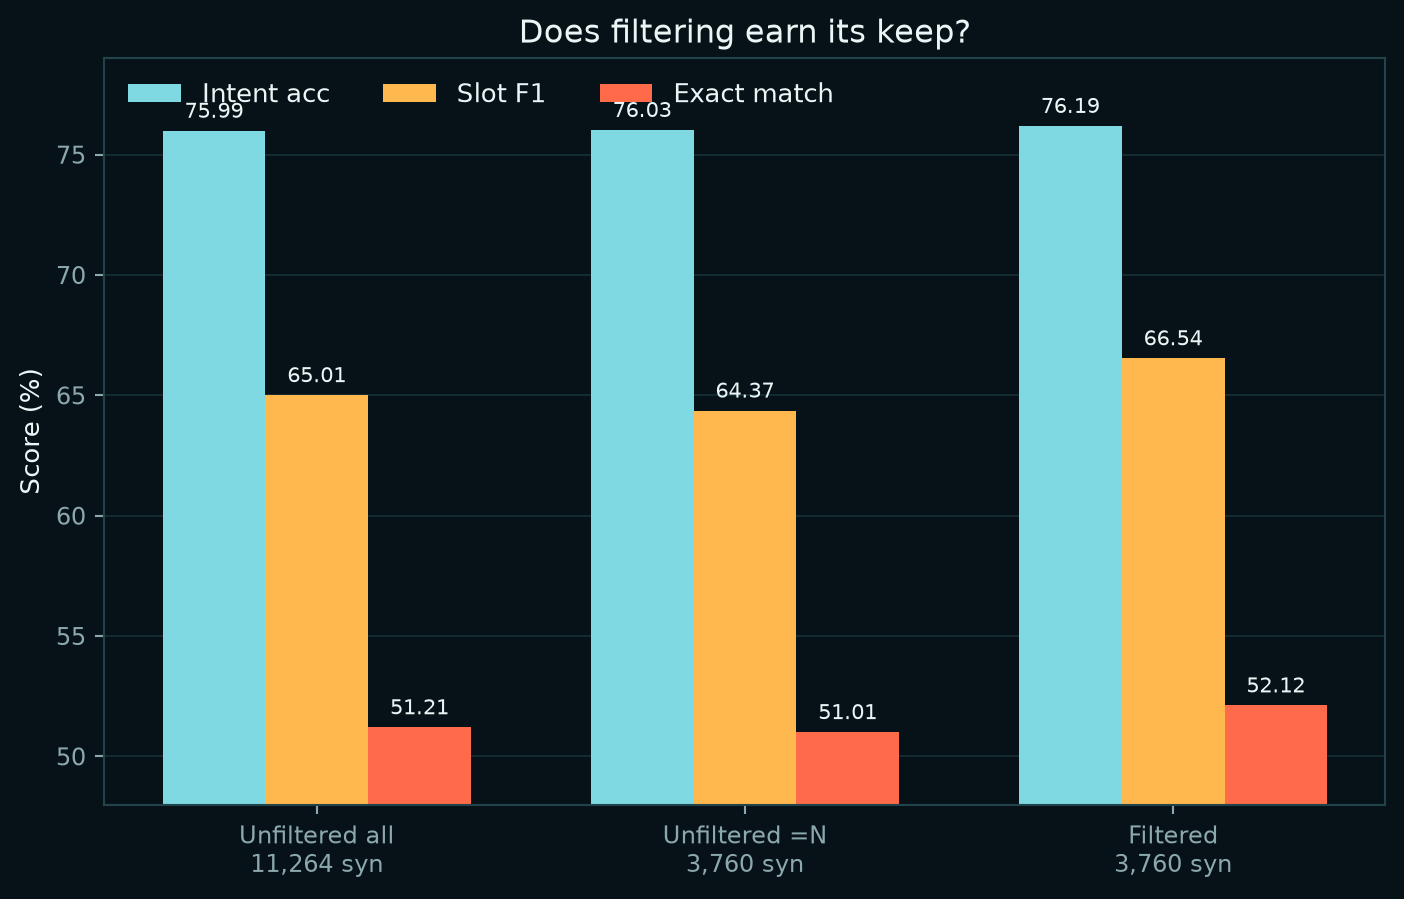
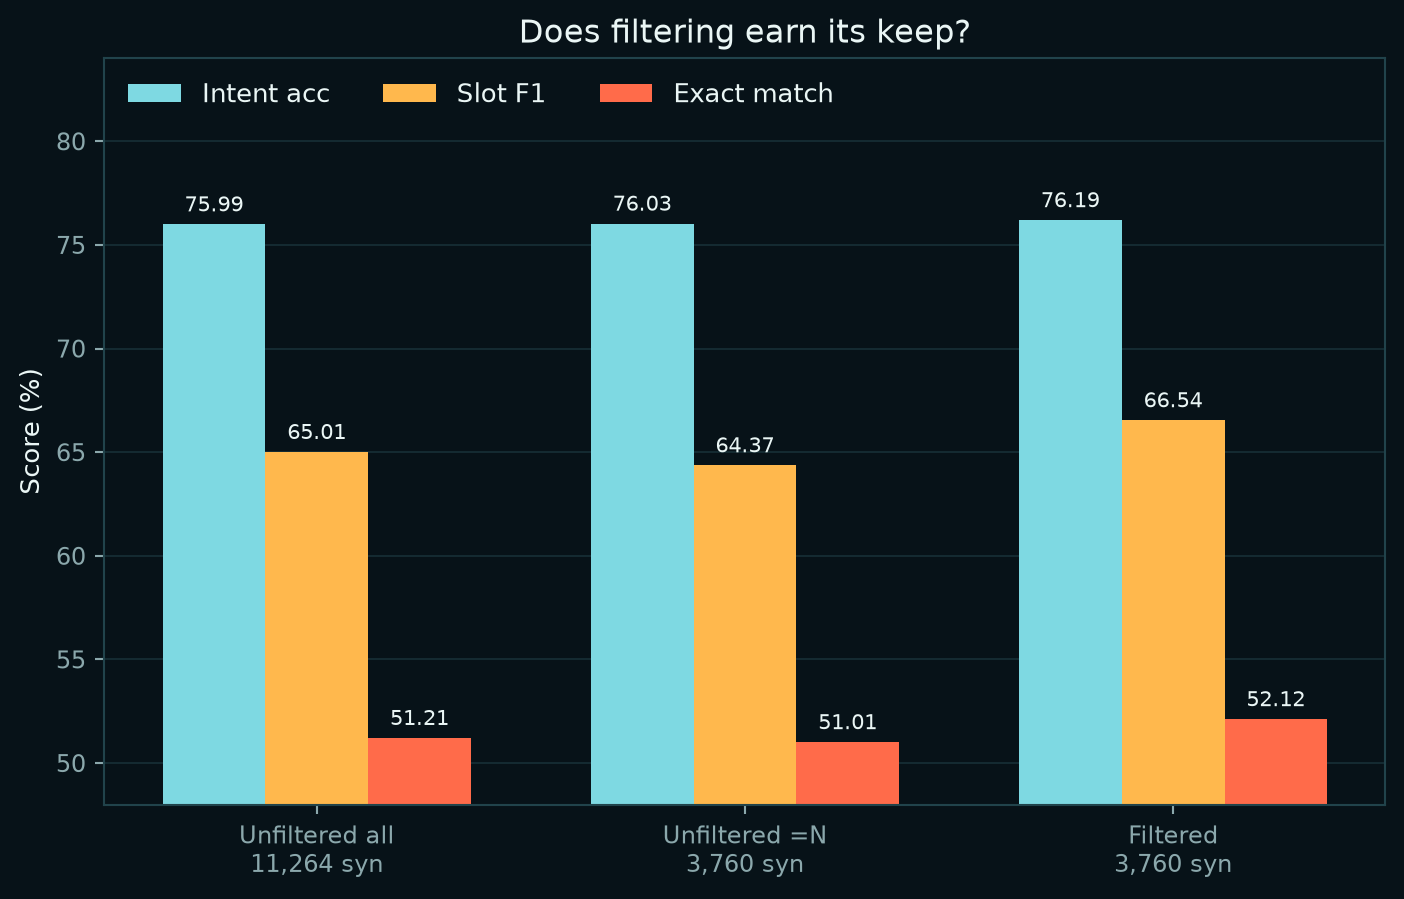
Give the filter comparison chart headroom for its legend
The upper-left legend sat on top of the first bar's value label, so 75.99 was
readable but crowded. Raising the y limit from 79 to 84 clears it.

Regenerated with the resource report pointed at a throwaway path so only the
assets changed; the ledger still reflects the batches that had completed when
it was last built.

Opened both regenerated charts to check them, per the repo's own rule about
looking at figures you produce. The truncated y axes are worth naming: both
charts start well above zero, which makes small gaps easier to see. That is
defensible here because every bar carries its printed value and the filter
chart labels each group's synthetic row count, so the actual size of a 0.20
point intent-accuracy gap is legible rather than implied by bar height.

diff --git a/scripts/build_m12_artifacts.py b/scripts/build_m12_artifacts.py
@@ -395,7 +395,9 @@ def chart_filter_comparison(m10: dict[str, Any], output: Path) -> None:
             fontsize=8,
         )
     axis.set_xticks(list(x_positions), labels)
-    axis.set_ylim(48, 79)
+    # Headroom above the tallest bar so the upper-left legend does not sit on
+    # top of the first bar's value label.
+    axis.set_ylim(48, 84)
     axis.set_ylabel("Score (%)")
     axis.set_title("Does filtering earn its keep?")
     legend = axis.legend(frameon=False, ncols=3, loc="upper left")
